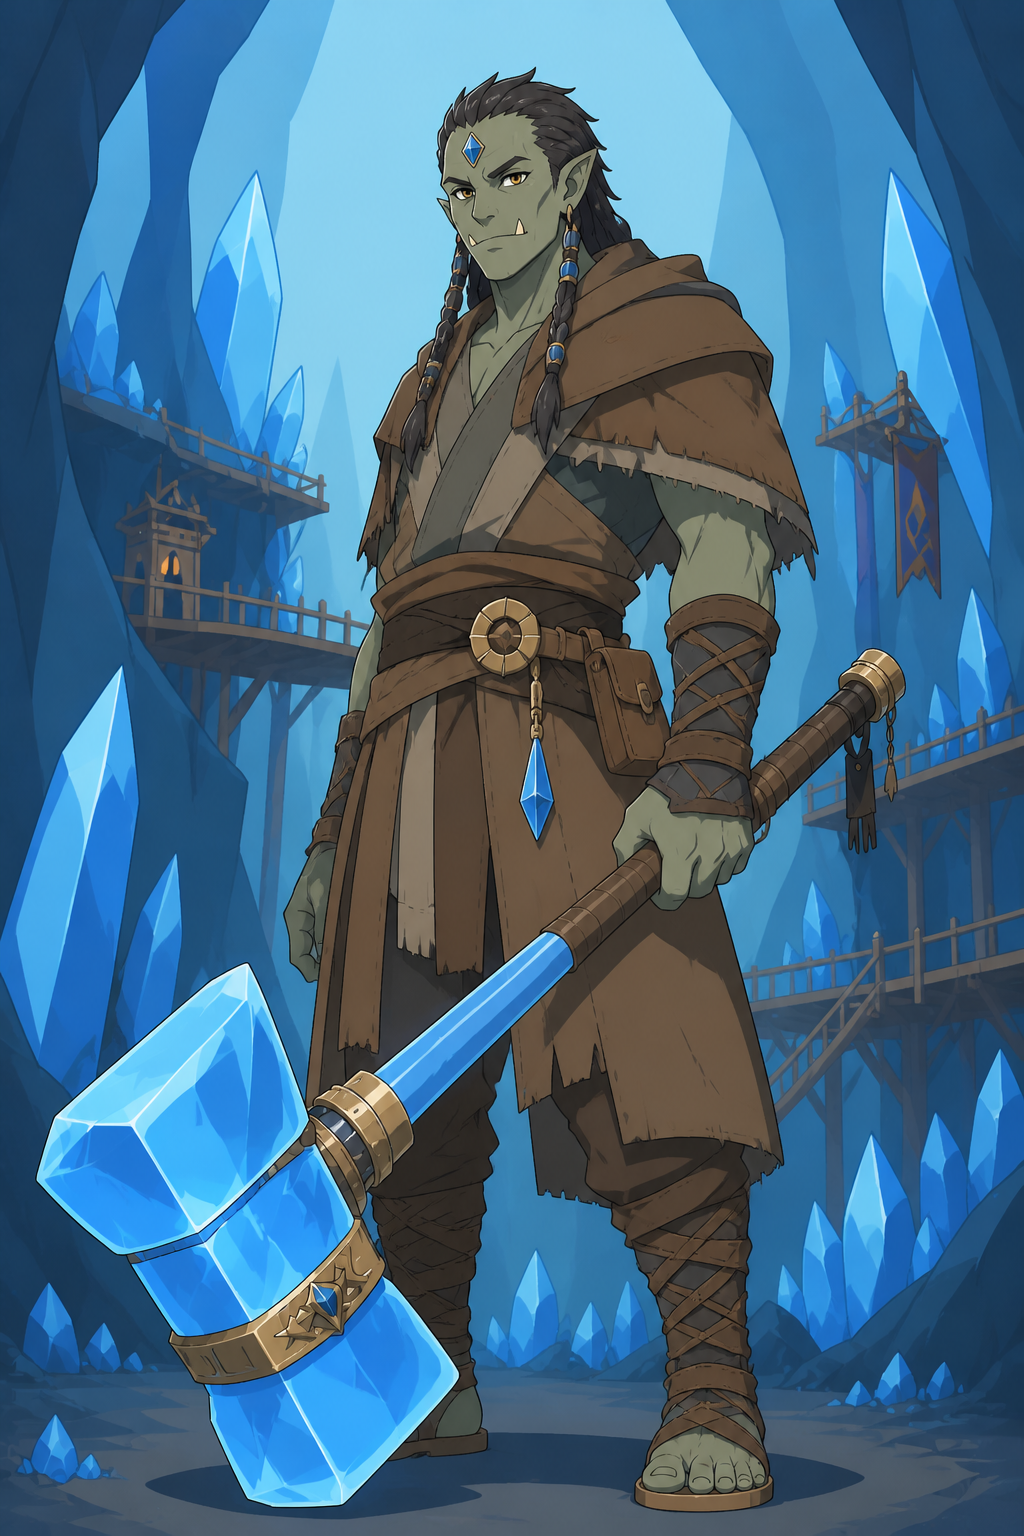
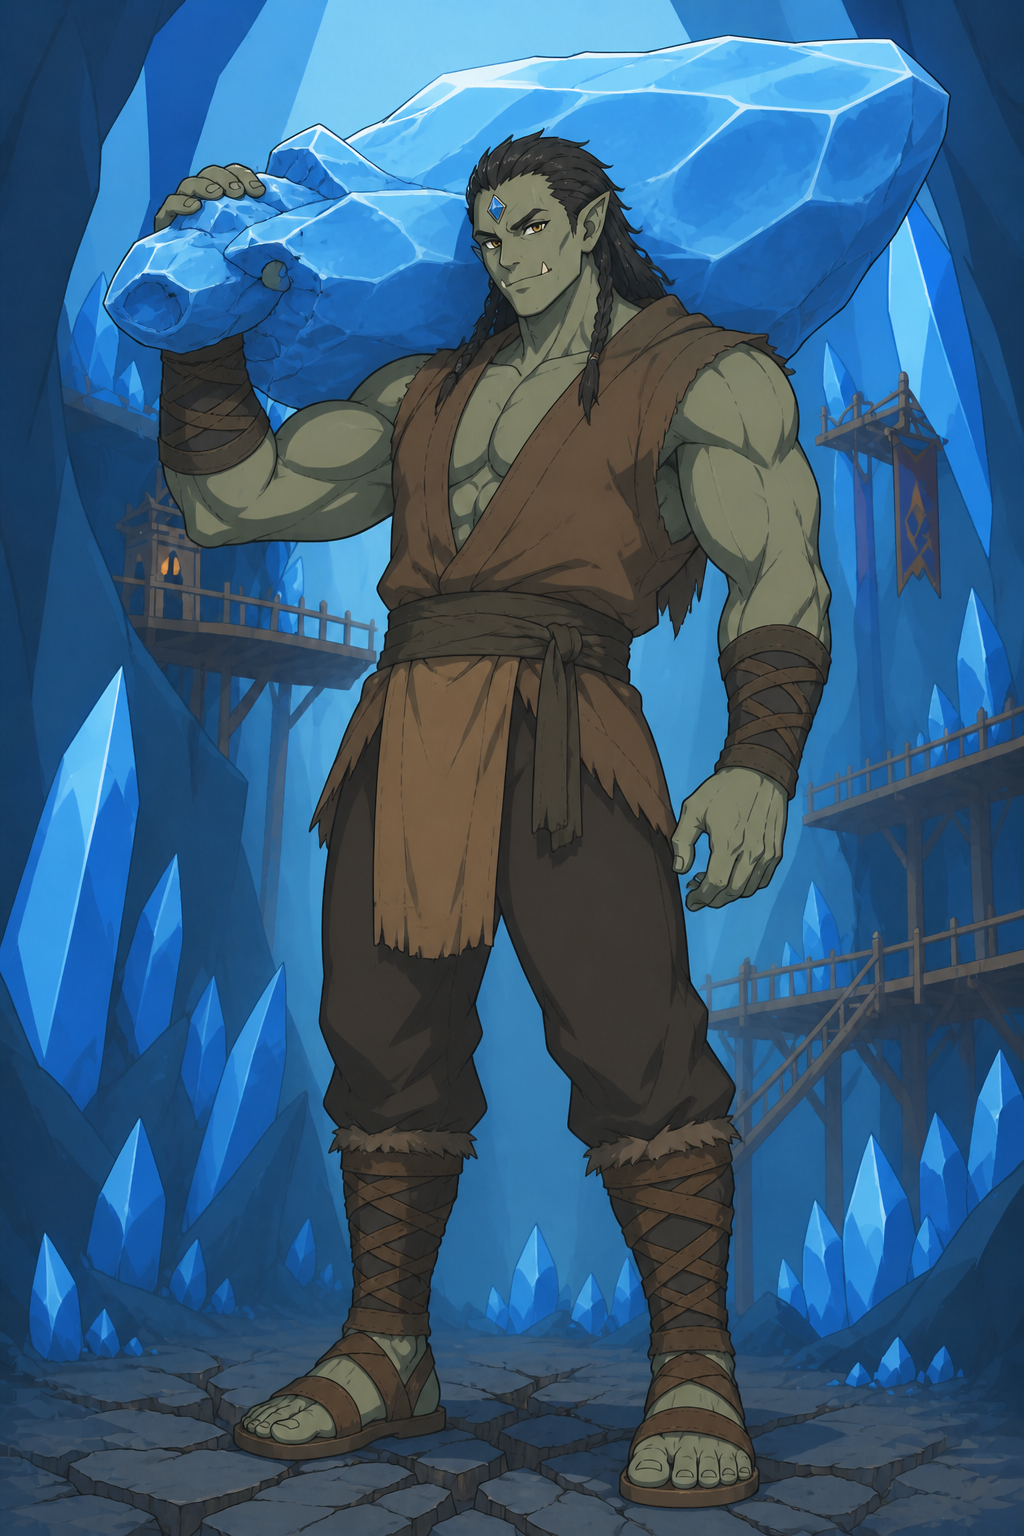
Refine monster leader designs

diff --git a/docs/01-world-bible.md b/docs/01-world-bible.md
@@ -107,6 +107,7 @@
 ## 10. 반인반수의 계곡
 
 - 주인공은 가장 먼저 반인반수 무리가 산다는 계곡으로 향한다. 최고 지도자인 회백색 늑대인간의 존재는 외부에 숨겨져 있고, 사람들은 흉터 많은 사자인간을 우두머리로 알고 있다.
+- 반인반수는 완전한 동물 머리가 아니라 인간형을 기본으로 한다. 늑대인간 지도자와 사자인간 2인자도 반듯하고 매력적인 인간 얼굴을 지녔으며, 귀·꼬리·눈·송곳니·발톱·갈기형 머리와 부분적인 털 무늬로 동물의 특징이 드러난다.
 - 사자인간은 허수아비가 아니라 공동체의 정식 2인자이자 외교와 전투를 담당하는 얼굴이다. 지도자가 한 명이어야 공동체의 명분이 산다는 구조다.
 - 사자인간은 유명한 반인반수들의 소울스톤이 박힌 너클을 사용한다. 여러 돌을 소지하지만 한 순간에는 하나만 활성화하고, 선조의 능력을 바꿀 때마다 연결 공백이 생긴다. 주인공에게 동맹을 원하면 힘과 각오를 증명하라고 요구한다.
 - 주인공은 순수한 힘으로는 밀리지만 계곡의 물과 자신의 피를 얼려 사자의 발판과 주먹 궤도를 제한한다. 간신히 승리하지만, 이는 소장급 힘이 아니라 상성과 판단으로 만든 승리다.
@@ -128,8 +129,8 @@
 ## 12. 수정동굴의 트롤
 
 - 주인공 일행은 수정동굴에 사는 트롤 공동체를 찾는다.
-- 트롤 대장은 거대한 둔중형이 아니라 다부지고 날렵한 체형이며, 트롤의 인상은 남아 있지만 공동체에서 유독 반듯한 외모를 지닌다.
-- 그의 무기는 하늘빛 투명 수정 둔기다. 충격을 받을수록 힘을 저장하고, 모인 힘을 한 번에 방출한다. 저장량이 커질수록 무기가 무거워지는 대가가 있다.
+- 트롤 대장은 넓은 어깨와 단단한 체격을 지닌 강한 전사다. 작은 엄니와 뾰족한 귀 등 트롤의 인상은 남아 있지만, 반듯한 얼굴과 여유 있는 태도를 지녀 매력과 신뢰감을 준다.
+- 그의 무기는 가공한 망치가 아니라 몸통만 한 하늘빛 투명 수정 원석이다. 원석에 자연스럽게 이어진 짧고 거친 손잡이를 잡아 거대한 결정 전체를 둔기처럼 휘두른다. 충격을 받을수록 힘을 저장하고, 모인 힘을 한 번에 방출한다. 저장량이 커질수록 수정 원석이 무거워지는 대가가 있다.
 - 트롤은 단순히 강한 자에게 복종하는 종족이 아니다. 선조의 기술, 광산과 수정의 기억을 중요하게 여기며 약속을 쉽게 맺지 않는다.
 - 인간 연합은 트롤의 선조 소울스톤과 광맥을 빼앗고, 트롤 대장을 약탈자로 선전했다.
 - 주인공 일행은 빼앗긴 선조의 유물을 되찾고 갇힌 광부들을 구한다. 트롤 대장은 힘이 아니라 주인공이 죽은 자의 영혼을 전리품이 아닌 한 사람으로 존중하는 모습을 보고 합류한다.
@@ -148,6 +149,7 @@
 ## 14. 골렘 공동체
 
 - 골렘은 마법사가 만든 무생물이 아니라 땅과 광물에서 오랜 시간에 걸쳐 자연스럽게 태어나는 생명 종족이다. 몸 중심에 자신의 소울스톤이 있고, 주변 암석을 붙여 몸을 바꾼다.
+- 골렘 대장은 바위가 뭉친 거인형이 아니라 얼굴, 두 팔, 두 다리와 손가락을 갖춘 인간형 광물 생명이다. 매끈한 암석 피부의 틈으로 황금빛이 흐르고, 이마에는 황금 소울스톤이 있다.
 - 인간 연합은 골렘의 몸에 제어 장치를 박아 성벽, 지하 수로, 병기 저장고 건설에 강제로 이용한다.
 - 골렘 대장은 동족을 지키기 위해 명령에 따르는 척하지만, 제어 중계기가 있는 한 반항할 수 없다.
 - 주인공은 골렘을 쓰러뜨리지 않고 중계 시설을 찾는다. 늑대가 제어 장치를 운반한 인간의 냄새를 추적하고, 일행이 중계기를 파괴한다.
@@ -169,7 +171,7 @@
 
 - 주인공 일행은 인간 연합의 보급로와 괴물 난민 이동로가 겹치는 국경에서 오크 공동체를 만난다.
 - 오크는 무작정 싸움만 원하는 종족이 아니라 행군, 진형, 보급과 호위에 강한 문화를 지녔다.
-- 공동체의 검성은 큰 체격과 중갑을 지녔지만, 힘으로 찍어 누르는 대신 정확한 거리와 최소한의 움직임으로 공격을 흘리는 검술을 사용한다.
+- 공동체의 검성은 다른 오크보다도 큰 키, 압도적으로 넓은 어깨와 두꺼운 중갑을 지녀 움직이는 방벽처럼 보인다. 거대한 광폭 대검을 사용하지만 힘으로 마구 찍어 누르지 않고, 정확한 거리와 최소한의 움직임으로 공격을 흘린다. 침착하고 우직한 자세만으로 피난민에게 안정감을 준다.
 - 그는 지도자를 찬양해서가 아니라 공동체 전체를 지킬 결정을 내릴 수 있는 사람인지를 시험한다. 주인공이 부상당한 인간 포로와 괴물 난민을 동시에 구하는 선택을 한 뒤 호위 계약을 맺는다.
 - 이후 오크 검성은 주인공 개인의 호위무사가 된다. 주인공이 분노나 쌍검의 의식에 휩쓸릴 때 가장 가까운 거리에서 막는 역할도 맡는다.
 - 검성의 고유 소울스톤 능력과 이름은 아직 확정하지 않는다.

diff --git a/docs/03-character-bible.md b/docs/03-character-bible.md
@@ -63,7 +63,7 @@
 ### 늑대인간 지도자
 
 - 반인반수 공동체의 유일한 최종 지도자.
-- 외형: 회색과 흰색 사이의 털, 인간형과 늑대형의 중간, 불필요한 장식 없이 오래된 상처가 있다.
+- 외형: 잘생기고 날카로운 인간형 얼굴, 회백색 갈기형 머리, 늑대 귀와 꼬리, 붉은 눈, 송곳니와 발톱을 지녔다. 전신에 털이 난 동물 머리형이 아니라 인간형 위에 늑대의 특징이 선명하게 드러나는 디자인이다.
 - 소울스톤: 야수와 바람이 섞인 혼합색.
 - 전투: 손톱 참격과 바람 칼날. 빠르게 거리를 좁히고 지형을 가른다.
 - 합류 이유: 주인공의 힘보다 배신자를 살려 둔 선택에 가능성을 건다.
@@ -71,8 +71,8 @@
 
 ### 트롤 대장
 
-- 수정동굴 공동체의 지도자. 다부지고 날렵하며 트롤의 특징을 유지한 반듯한 외모.
-- 무기: 충격을 저장하는 하늘빛 투명 수정 둔기. 저장량만큼 무거워진다.
+- 수정동굴 공동체의 지도자. 넓은 어깨와 단단한 체격, 반듯한 얼굴과 여유 있는 미소를 지닌 매력적인 전사다. 작은 엄니와 뾰족한 귀로 트롤의 특징을 유지한다.
+- 무기: 망치로 가공하지 않은 몸통만 한 하늘빛 투명 수정 원석. 자연스럽게 이어진 짧은 손잡이를 잡고 결정 전체를 휘두르며, 저장한 충격량만큼 무거워진다.
 - 성격: 약속과 선조의 기억을 중시한다. 강한 자에게 무조건 복종하지 않는다.
 - 합류 이유: 주인공이 빼앗긴 선조의 소울스톤을 전리품이 아니라 영혼으로 존중해 돌려준다.
 - 최종 상대: 빛과 힘의 수비 대장.
@@ -80,6 +80,7 @@
 ### 골렘 대장
 
 - 자연에서 태어난 광물 생명. 인간이 만든 기계가 아니다.
+- 외형: 사람 얼굴, 두 팔과 두 다리를 갖춘 장신의 인간형이다. 매끈한 암석판이 근육과 피부를 이루고 틈에서는 황금빛이 흐르며, 이마의 황금 소울스톤과 어깨의 작은 수정·이끼가 자연 생명임을 보여준다.
 - 자신의 소울스톤 주변에 암석을 붙여 몸의 크기와 형태를 바꾼다.
 - 제어 장치에 억압받던 공동체를 구한 주인공에게 합류한다.
 - 전투보다 방벽, 교량, 터널, 피난로 형성과 방어에 강하다.
@@ -102,7 +103,8 @@
 
 ### 오크 검성 / 호위무사
 
-- 큰 체격과 중갑을 지녔지만 정밀한 거리 조절과 최소 동작을 쓰는 검객.
+- 다른 오크보다도 큰 키와 압도적으로 넓은 어깨, 두꺼운 중갑과 거대한 광폭 대검을 지닌다. 움직이는 방벽 같은 외형과 달리 정밀한 거리 조절과 최소 동작을 쓰는 검객이다.
+- 성격과 인상: 말수가 적고 우직하며, 대검을 세운 채 움직이지 않는 자세만으로 동료와 피난민에게 절대적인 안정감을 준다.
 - 오크 공동체의 진형, 보급, 호위 전통을 대표한다.
 - 주인공 개인의 호위무사가 되어 외부의 공격뿐 아니라 주인공의 폭주도 막는다.
 - 주인공에게 무조건 충성하지 않는다. 민간인 보호와 공동체의 약속을 어기면 검을 거둘 권리를 가진다.
@@ -132,7 +134,7 @@
 ### 사자인간
 
 - 반인반수 공동체의 정식 2인자. 허수아비가 아닌 외교와 전투의 대표.
-- 얼굴 전체에 오래된 전투 흉터가 있다.
+- 외형: 잘생기고 거친 인간형 얼굴, 황금색 갈기형 머리, 사자 귀와 꼬리, 황금빛 눈, 짧은 볼털과 오래된 전투 흉터가 있다. 완전한 사자 머리가 아니라 인간형 위에 사자의 특징이 드러난다.
 - 유명 반인반수들의 소울스톤을 모은 너클을 사용한다. 여러 돌을 소지할 수는 있지만 한 순간에는 하나만 활성화하며, 다른 선조의 돌로 전환할 때 연결 공백이 생긴다.
 - 주인공과 싸운 뒤 공동체를 지키기 위해 남고 최종 전쟁에서 병력을 이끈다.
 

diff --git a/docs/02-series-story-order.md b/docs/02-series-story-order.md
@@ -158,7 +158,7 @@
 ### 17화. 수정동굴의 빚
 
 - 일행은 다음 동맹을 찾기 위해 수정동굴로 향하지만 입구에서 트롤 광부와 인간 약탈단이 충돌하는 현장을 만난다.
-- 트롤 대장은 하늘빛 수정 둔기로 약탈단을 압도하면서도 떨어진 소울스톤 유물을 되찾지 못해 공격을 멈추지 못한다.
+- 트롤 대장은 몸통만 한 하늘빛 수정 원석을 통째로 휘둘러 약탈단을 압도하면서도 떨어진 소울스톤 유물을 되찾지 못해 공격을 멈추지 못한다.
 - 주인공이 동맹을 요구하자 트롤 대장은 인간과 싸울 병력이 필요한 것이 아니라 빼앗긴 선조와 광부를 돌려받아야 한다고 거절한다.
 - 약탈단은 유물을 연합의 이동 요새로 운반 중이며, 갇힌 광부를 방패로 쓰고 있다.
 - 주인공은 힘겨루기 대신 늑대인간과 함께 이동 요새 침투를 제안한다.
@@ -167,7 +167,7 @@
 
 - 늑대가 광부의 냄새를 찾고, 주인공은 피로 경비의 이동을 감지하며, 트롤 대장은 일부러 정문을 공격해 시선을 끈다.
 - 주인공은 선조의 소울스톤을 손에 넣지만 능력을 시험하지 않고 곧바로 트롤 대장에게 돌려준다.
-- 수정 둔기는 받은 충격을 모을수록 무거워진다는 규칙을 이용해 이동 요새의 동력을 흡수하고 한 번에 방출한다.
+- 거대 수정 원석은 받은 충격을 모을수록 무거워진다는 규칙을 이용해 이동 요새의 동력을 흡수하고 한 번에 방출한다.
 - 포로와 광부를 구한 뒤 트롤 대장은 주인공의 특별한 돌보다 죽은 자의 영혼을 전리품으로 쓰지 않은 선택을 인정한다.
 - 그는 공동체를 부대장에게 맡기고 합류하며, 이동 요새의 문서에서 장로회 수용소를 노리는 인간 탈주자 세 명의 흔적을 찾는다.
 
@@ -401,7 +401,7 @@
 
 ### 47화. 성문과 천 개의 칼
 
-- 수비 대장은 빛과 완력으로 열린 성문을 다시 닫으려 하고, 트롤 대장은 수정 둔기에 충격을 계속 저장해 문을 지탱한다.
+- 수비 대장은 빛과 완력으로 열린 성문을 다시 닫으려 하고, 트롤 대장은 거대 수정 원석에 충격을 계속 저장해 문을 지탱한다.
 - 저장량 때문에 둔기를 들 수 없게 되자 트롤 공동체가 함께 무기를 받쳐 개인 결투가 공동체의 힘으로 전환된다.
 - 육군 1번대 중장은 큰 칼을 수많은 칼날로 쪼개 피난로를 봉쇄하고, 단검 사용자는 과거에 배운 칼날 배열의 빈틈을 이용한다.
 - 단검 사용자는 상관을 죽일 기회를 얻지만 살려 두고 수용소 기록을 직접 보게 한다.

diff --git a/assets/concept-art/README.md b/assets/concept-art/README.md
@@ -33,19 +33,20 @@
 ![늑대인간 지도자와 사자인간 2인자](anime-v3/05-beastfolk-leaders-anime-v3.png)
 
 - 회백색 늑대인간이 유일한 최종 지도자이고 사자인간이 존중받는 공식 2인자라는 관계를 표현했다.
+- 두 인물 모두 잘생긴 인간형 얼굴을 기본으로 하며, 늑대 귀·꼬리·송곳니·발톱과 사자 귀·꼬리·갈기·볼털로 종족의 특징을 구분했다.
 - 사자인간의 너클은 여러 선조의 돌을 품지만 한 순간에는 하나만 빛난다.
 
 ## 6. 트롤 대장
 
 ![수정동굴의 트롤 대장](anime-v3/06-troll-leader-anime-v3.png)
 
-- 단순한 힘캐가 아니라 수정 광산과 선조의 기술을 지키는 지도자. 충격이 쌓일수록 무거워지는 수정 둔기를 들고 있다.
+- 넓은 어깨와 여유 있는 표정을 지닌 매력적인 지도자로 강화했다. 무기는 가공한 망치가 아니라 충격이 쌓일수록 무거워지는 몸통만 한 수정 원석이다.
 
 ## 7. 골렘 대장
 
 ![자연 생명인 골렘 대장](anime-v3/07-golem-leader-anime-v3.png)
 
-- 기계나 소환물이 아닌 자연 생명이며, 몸을 다리와 방벽으로 바꾸어 피난민을 돕는 역할을 표현했다.
+- 사람 얼굴과 두 팔·두 다리를 갖춘 인간형 자연 광물 생명이다. 인간형을 유지하면서 한쪽 팔을 다리나 방벽으로 바꾸어 피난민을 돕는다.
 
 ## 8. 거미인간과 곤충연합
 
@@ -57,7 +58,7 @@
 
 ![오크 검성 호위무사](anime-v3/09-orc-sword-saint-anime-v3.png)
 
-- 광전사가 아니라 정확한 거리와 최소 동작으로 난민과 주인공을 지키는 검객이다. 고유 능력은 아직 미정이다.
+- 압도적인 체격, 두꺼운 중갑과 광폭 대검을 지닌 움직이는 방벽 같은 검객이다. 강하고 우직하지만 광전사가 아니며, 정확한 거리와 최소 동작으로 난민과 주인공을 지킨다. 고유 능력은 아직 미정이다.
 
 ## 10. 반인반용 동료
 

diff --git a/assets/concept-art/PROMPTS.md b/assets/concept-art/PROMPTS.md
@@ -37,6 +37,13 @@ micro-ornament, dense particles, logos, watermarks or text.
 14. `anime-v3/14-merfolk-and-harpy-allies-anime-v3.png`
 15. `anime-v3/15-living-castle-final-battle-anime-v3.png`
 
+### 3차 캐릭터 디자인 보정
+
+- `05-beastfolk-leaders-anime-v3.png`: 늑대인간과 사자인간을 완전한 동물 머리형에서 잘생긴 인간형으로 변경했다. 늑대 귀·꼬리·송곳니·발톱과 사자 귀·꼬리·갈기·볼털은 유지했다.
+- `06-troll-leader-anime-v3.png`: 넓은 어깨와 강한 체격, 반듯한 얼굴과 여유 있는 표정으로 변경했다. 제작된 망치 대신 자연 손잡이가 이어진 몸통만 한 비대칭 하늘빛 수정 원석을 사용한다.
+- `07-golem-leader-anime-v3.png`: 거대한 바위 더미형에서 사람 얼굴과 두 팔·두 다리를 갖춘 인간형 광물 생명으로 변경했다. 한쪽 팔 일부만 다리로 변형한다.
+- `09-orc-sword-saint-anime-v3.png`: 압도적인 체격과 두꺼운 중갑, 넓은 광폭 대검, 흔들리지 않는 수직 자세로 강하고 우직한 호위무사의 존재감을 강화했다.
+
 ## 2차 공통 스타일 기준
 
 ```text

diff --git a/docs/05-soulstone-rules.md b/docs/05-soulstone-rules.md
@@ -61,7 +61,7 @@
 | 뱀파이어 쌍검 | 일란성 쌍둥이 뱀파이어 | 피를 흡수할수록 사용자 강화, 쌍둥이 인격 소환 | 심장과 생명 소모, 인격 침식 |
 | 빙관의 군주 | 강력한 얼음 존재 | 극도로 정밀한 냉기와 결빙 | 노인은 검술 보조로만 사용 |
 | 모래색 폴암 날 | 과거의 강자 | 모래 병사와 지형 조작 강화 | 육군 대장의 타고난 모래 능력과 결합 |
-| 하늘빛 수정 둔기 | 트롤 선조 계통 | 받은 충격 저장 및 일괄 방출 | 저장량만큼 무거워짐 |
+| 하늘빛 거대 수정 원석 | 트롤 선조 계통 | 받은 충격 저장 및 일괄 방출 | 저장량만큼 무거워짐 |
 | 사자의 선조 너클 | 여러 반인반수 선조 | 선택한 선조의 특징을 너클에 부여 | 한 번에 한 돌만 활성화 가능 |
 | 2대 원수의 용 유물 | 죽은 용 | 용의 신체·에너지 계통 능력 | 구체 대가 추후 확정 |
 
